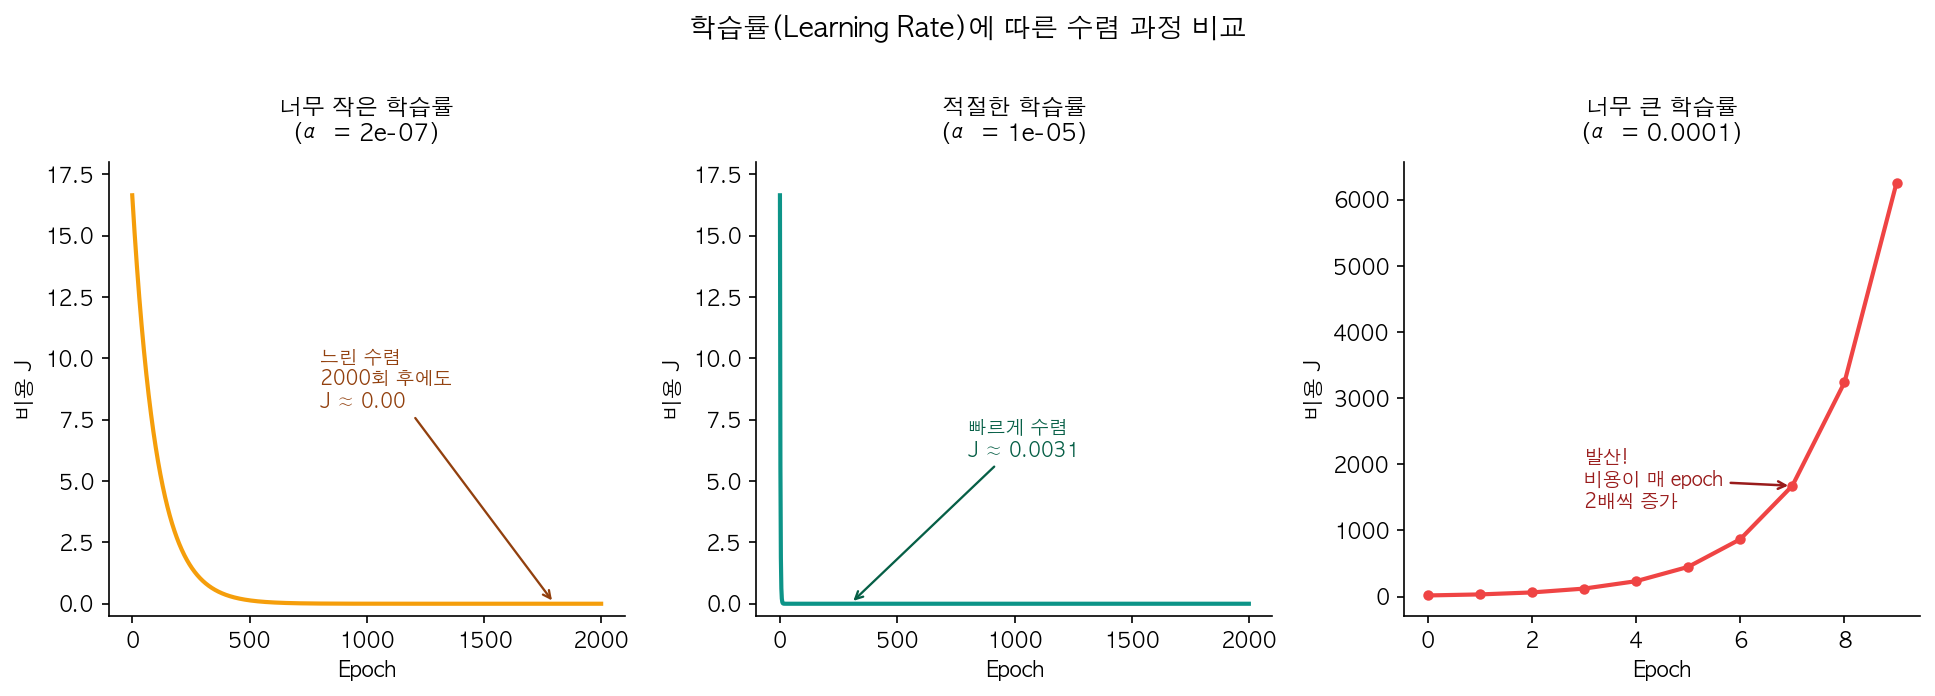
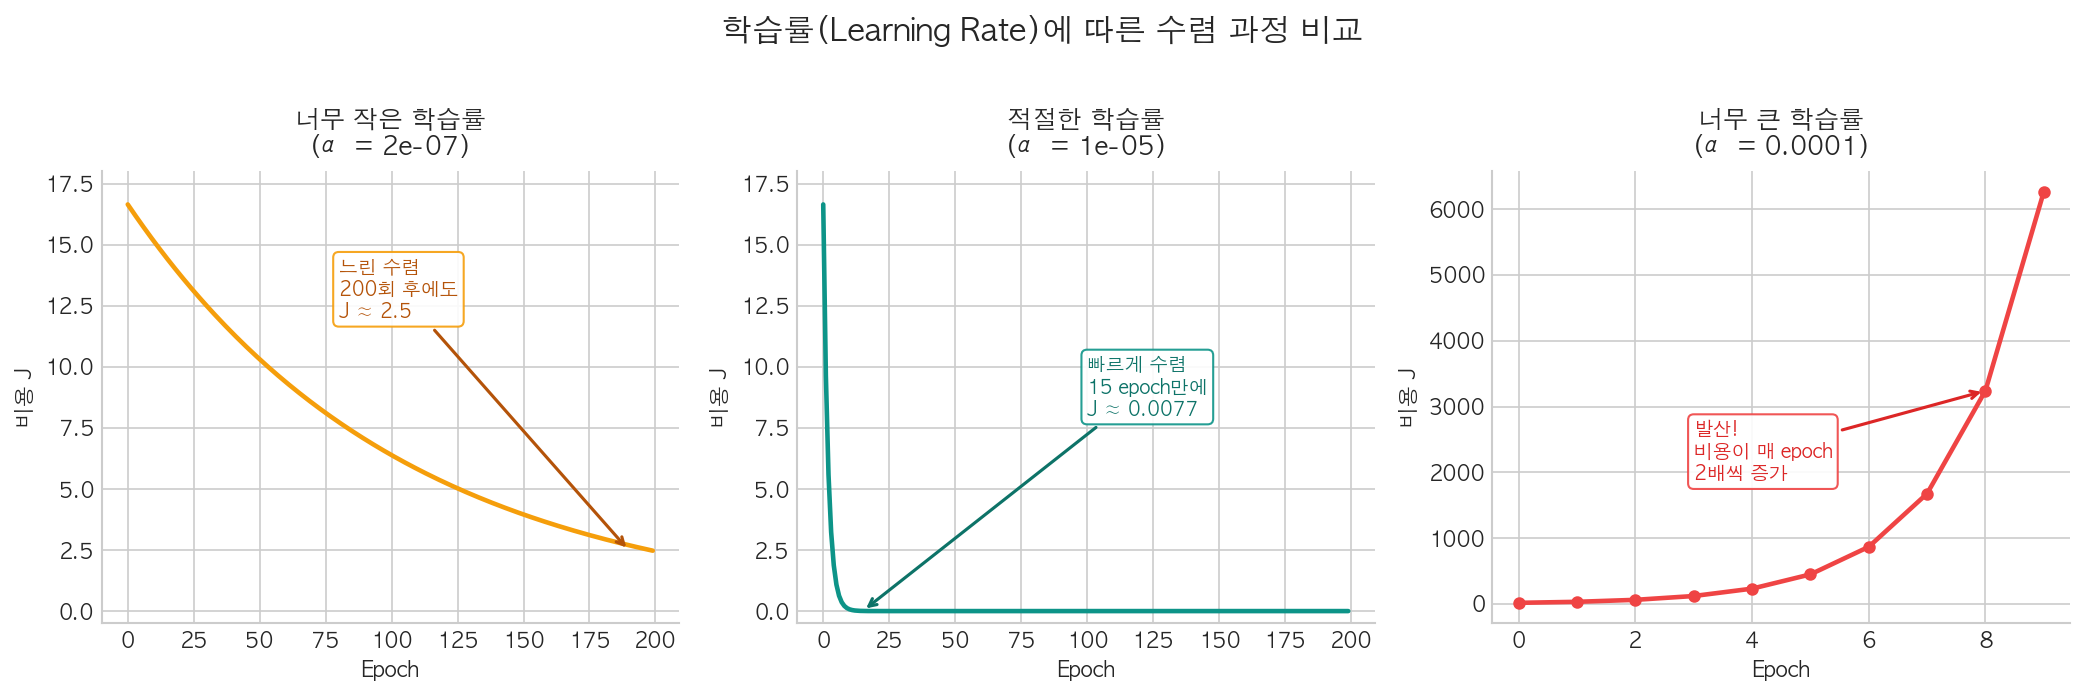
fix(content): improve learning rate comparison graph and fix code/output mismatch
Regenerate learning-rate-comparison.png with proper x-axis scale (0-200 for
all panels) so the "just right" learning rate shows a smooth convergence curve
instead of a near-vertical drop. Fix Korean font rendering. Also fix the code
block where learning_rates[0] was 0.000001 but output showed 0.0000002.

diff --git a/contents/ml/gradient-descent/index.md b/contents/ml/gradient-descent/index.md
@@ -168,7 +168,7 @@ Epoch  4000 | Cost: 0.003057 | w: 0.037324 | b: -0.000179
 코드로 확인해보자.
 
 ```python
-learning_rates = [0.000001, 0.00001, 0.0001]
+learning_rates = [0.0000002, 0.00001, 0.0001]
 
 for lr in learning_rates:
     w, b = 0.0, 0.0
@@ -179,13 +179,13 @@ for lr in learning_rates:
         w -= lr * dw
         b -= lr * db
     cost = np.mean((w * X + b - y) ** 2)
-    print(f"lr={lr:.6f} → w={w:.4f}, b={b:.4f}, cost={cost:.6f}")
+    print(f"lr={lr} → w={w:.4f}, b={b:.4f}, cost={cost:.6f}")
 ```
 
 ```
-lr=0.0000002 → w=0.0373, b=0.0003, cost=0.003064
-lr=0.0000100 → w=0.0373, b=-0.0001, cost=0.003059
-lr=0.0001000 → w=nan, b=nan, cost=nan
+lr=2e-07 → w=0.0373, b=0.0003, cost=0.003064
+lr=1e-05 → w=0.0373, b=-0.0001, cost=0.003059
+lr=0.0001 → w=nan, b=nan, cost=nan
 ```
 
 학습률 0.0001은 이 데이터에서 발산했다(nan). 비용이 매 epoch마다 2배씩 커지며 무한대로 폭주한다. 실무에서는 보통 0.01, 0.001, 0.0001 등을 시도해보며 가장 안정적으로 수렴하는 값을 찾는다.
